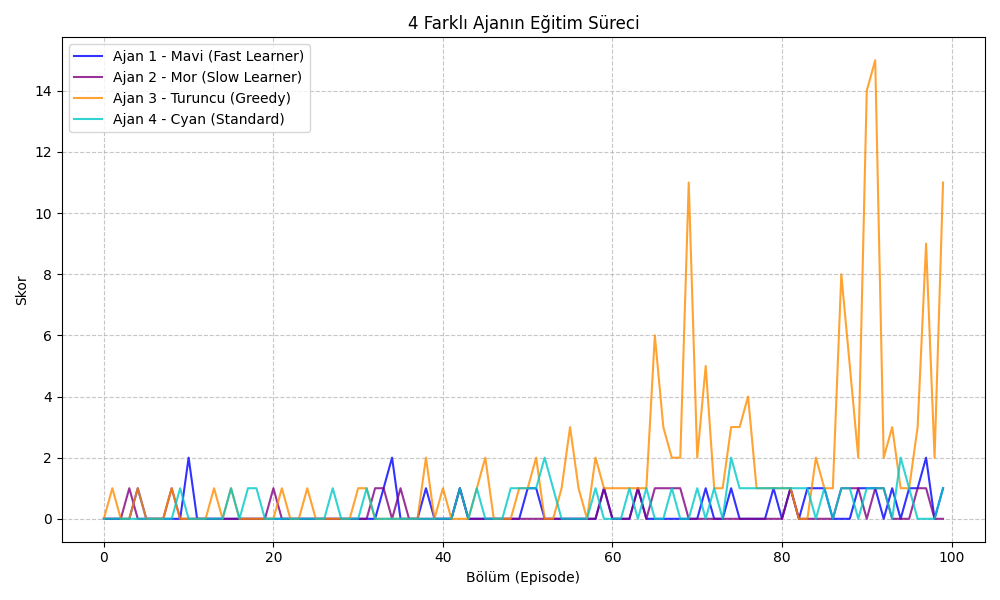
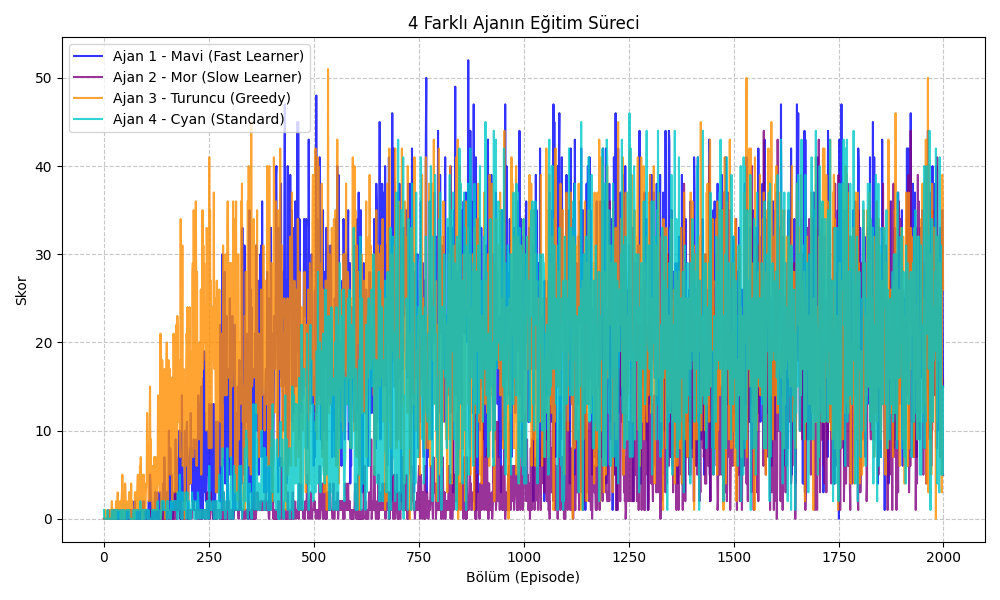
lastupdate:race-system-developed

diff --git a/multi_agent_racing/race.py b/multi_agent_racing/race.py
@@ -3,8 +3,8 @@ import time
 from snake_game import MultiSnakeEnv
 from model import DQNAgent
 
-def race(games=5):
-    env = MultiSnakeEnv(render_mode=True)
+def race(games=5, fps=15):
+    env = MultiSnakeEnv(render_mode=True, fps=fps)
     
     agents = [DQNAgent() for _ in range(4)]
     
@@ -19,13 +19,27 @@ def race(games=5):
         print("Önce modelleri eğitmek için 'python train.py' çalıştırın.")
         return
 
-    for g in range(1, games+1):
+    tournament_wins = [0, 0, 0, 0]
+    g = 1
+
+    while True:
+        # Turnuva tamamlandı mı?
+        if g > games:
+            max_wins = max(tournament_wins)
+            leaders = [i for i, w in enumerate(tournament_wins) if w == max_wins]
+            
+            if len(leaders) == 1:
+                break # Turnuva bitti, tek galip var
+            else:
+                print(f"\n--- BERABERLIK DURUMU! ---")
+                print(f"Liderler: Ajanlar {[(i+1) for i in leaders]} ({max_wins} Galibiyet)")
+                print(f"Eşitlik bozulana kadar {g}. yarış (Tie-Breaker) oynanacak!")
+        
         obs_list = env.reset()
         dones = [False, False, False, False]
         
         while not all(dones):
             env.render(is_race=True) # Yarışma modunda render (karartma vs)
-            time.sleep(0.05) # Yarışmayı izleyebilmek için biraz yavaşlatıyoruz
             
             actions = []
             for i, agent in enumerate(agents):
@@ -37,15 +51,45 @@ def race(games=5):
             obs_list, _, new_dones = env.step(actions)
             dones = new_dones
             
-        # Oyun bitince 2 saniye bekle
-        print(f"Yarış {g} bitti!")
-        env.render(is_race=True) # Kazanan yazısını ekranda göstermek için
-        time.sleep(3)
+        # Oyun bitince kazananı belirle
+        scores = [env.envs[i].score for i in range(4)]
+        max_score = max(scores)
+        winners = [i for i, s in enumerate(scores) if s == max_score]
         
+        if len(winners) > 1:
+            print(f"Yarış {g} berabere bitti! Skorlar: {scores} (Yarış Tekrarlanacak)")
+            env.render(is_race=True) # Berabere yazısını ekranda göstermek için
+            time.sleep(3)
+            # g artırılmaz, aynı yarış numarası tekrarlanır.
+        else:
+            winner_idx = winners[0]
+            tournament_wins[winner_idx] += 1
+            print(f"Yarış {g} bitti! Skorlar: {scores} | Kazanan: Ajan {winner_idx+1}")
+            env.render(is_race=True) # Kazanan yazısını ekranda göstermek için
+            time.sleep(3)
+            g += 1
+        
+    # Turnuva bitişi
+    overall_winner = tournament_wins.index(max(tournament_wins))
+    print(f"\n--- Turnuva Tamamlandı ---")
+    print(f"Galibiyetler: {tournament_wins}")
+    print(f"🏆 TURNUVA SAMPIYONU: AJAN {overall_winner+1} 🏆")
+    
+    # Ekrana turnuva galibini yazdır
+    env.screen.fill((50,50,50))
+    win_txt = env.font.render(f"TURNUVA SAMPIYONU: AJAN {overall_winner+1}", True, (255, 215, 0))
+    win_rect = win_txt.get_rect(center=(env.screen_w//2, env.screen_h//2))
+    import pygame
+    pygame.draw.rect(env.screen, (0,0,0), win_rect.inflate(40, 40))
+    env.screen.blit(win_txt, win_rect)
+    pygame.display.flip()
+    time.sleep(5)
+    
     env.close()
 
 if __name__ == "__main__":
     p = argparse.ArgumentParser()
-    p.add_argument("--games", type=int, default=3)
+    p.add_argument("--games", type=int, default=5)
+    p.add_argument("--fps", type=int, default=15)
     args = p.parse_args()
-    race(games=args.games)
+    race(games=args.games, fps=args.fps)

diff --git a/multi_agent_racing/snake_game.py b/multi_agent_racing/snake_game.py
@@ -7,7 +7,7 @@ HEIGHT_CELLS = 14
 CELL = 30
 WIDTH_PX = WIDTH_CELLS * CELL
 HEIGHT_PX = HEIGHT_CELLS * CELL
-FPS = 30
+FPS = 60
 
 # Ajan renkleri: (Body Outer, Body Inner, Head Outer, Head Inner)
 AGENT_COLORS = [
@@ -15,6 +15,13 @@ AGENT_COLORS = [
     ((128, 0, 128), (180, 50, 180), (75, 0, 130), (220, 100, 220)),  # Mor
     ((255, 140, 0), (255, 180, 50), (200, 100, 0), (255, 220, 100)), # Turuncu
     ((0, 200, 200), (50, 255, 255), (0, 120, 120), (150, 255, 255))  # Cyan
+]
+
+AGENT_LABELS = [
+    "Fast Learner",
+    "Slow Learner",
+    "Greedy",
+    "Standard"
 ]
 
 class SnakeEnv:
@@ -36,6 +43,8 @@ class SnakeEnv:
         self.dir_i = 1
         self.score = 0
         self.steps = 0
+        self.idle_steps = 0
+        self.max_idle_steps = 150
         self.max_steps = WIDTH_CELLS * HEIGHT_CELLS * 2
         self.done = False
         self._place_food()
@@ -53,6 +62,7 @@ class SnakeEnv:
             return self._obs(), 0.0, True
             
         self.steps += 1
+        self.idle_steps += 1
         self.dir_i = (self.dir_i + (1 if action==1 else -1 if action==2 else 0)) % 4
         dx, dy = self.DIRS[self.dir_i]
         hx, hy = self.snake[0]
@@ -69,13 +79,14 @@ class SnakeEnv:
         if head == self.food:
             self.score += 1
             reward = 10.0
+            self.idle_steps = 0
             self._place_food()
         else:
             tail = self.snake.pop()
             self.snake_set.discard(tail)
             reward = -0.01
 
-        if self.steps >= self.max_steps:
+        if self.steps >= self.max_steps or self.idle_steps >= self.max_idle_steps:
             self.done = True
             
         return self._obs(), reward, self.done
@@ -99,7 +110,7 @@ class SnakeEnv:
             float(fy<hy),  float(fy>hy),
         ], dtype=np.float32)
 
-    def draw(self, surface, is_winner=False, text_font=None):
+    def draw(self, surface, is_winner=False, is_tie=False, text_font=None):
         # Checkerboard yeşil zemin
         color1 = (170, 215, 81) # LIGHT_GREEN
         color2 = (162, 209, 73) # DARK_GREEN
@@ -124,13 +135,20 @@ class SnakeEnv:
             pygame.draw.rect(surface, c_out, (x*CELL, y*CELL, CELL, CELL))
             pygame.draw.rect(surface, c_in, (x*CELL + 4, y*CELL + 4, CELL - 8, CELL - 8))
                 
-        # Skor
+        # Skor (Sol üst)
         if text_font:
             txt = text_font.render(f"Skor: {self.score}", True, (0, 0, 0)) # Siyah yazı
             surface.blit(txt, (6, 4))
+            
+        # Strateji (Sağ üst)
+        if text_font:
+            strategy = AGENT_LABELS[self.agent_idx % 4]
+            strat_txt = text_font.render(strategy, True, (0, 0, 0))
+            x_pos = WIDTH_PX - strat_txt.get_width() - 8
+            surface.blit(strat_txt, (x_pos, 4))
 
         # Eğer ölmüşse karart
-        if self.done and not is_winner:
+        if self.done and not is_winner and not is_tie:
             s = pygame.Surface((WIDTH_PX, HEIGHT_PX), pygame.SRCALPHA)
             s.fill((0, 0, 0, 180)) # Yarı saydam siyah
             surface.blit(s, (0,0))
@@ -142,10 +160,17 @@ class SnakeEnv:
             # Gölge / arkaplan
             pygame.draw.rect(surface, (0,0,0), win_rect.inflate(20, 20))
             surface.blit(win_txt, win_rect)
+        # Eğer berabere ise
+        elif is_tie and text_font:
+            tie_txt = text_font.render("BERABERE!", True, (200, 200, 200))
+            tie_rect = tie_txt.get_rect(center=(WIDTH_PX//2, HEIGHT_PX//2))
+            pygame.draw.rect(surface, (0,0,0), tie_rect.inflate(20, 20))
+            surface.blit(tie_txt, tie_rect)
 
 class MultiSnakeEnv:
-    def __init__(self, render_mode=False):
+    def __init__(self, render_mode=False, fps=120):
         self.render_mode = render_mode
+        self.fps = fps
         self.envs = [SnakeEnv(i) for i in range(4)]
         self.screen = None
         self.clock = None
@@ -187,16 +212,22 @@ class MultiSnakeEnv:
                 
         self.screen.fill((50,50,50)) # Arka plan çerçevesi
         
-        # Hayatta kalan ajan sayısını bul (yarışma modu için)
+        # Yarışma modunda kazananı belirleme (Sadece herkes öldüğünde)
         active_agents = [i for i, env in enumerate(self.envs) if not env.done]
-        winner_idx = active_agents[0] if is_race and len(active_agents) == 1 else -1
-        if is_race and len(active_agents) == 0: # Hepsi öldüyse, en son öleni winner yapamayız gerçi, neyse.
-            pass
+        winner_idxs = []
+        is_tie = False
+        if is_race and len(active_agents) == 0:
+            scores = [env.score for env in self.envs]
+            max_s = max(scores)
+            winner_idxs = [i for i, s in enumerate(scores) if s == max_s]
+            if len(winner_idxs) > 1:
+                is_tie = True
 
         for i, env in enumerate(self.envs):
             surf = self.surfaces[i]
-            is_winner = (i == winner_idx) and is_race
-            env.draw(surf, is_winner=is_winner, text_font=self.font)
+            env_is_winner = (i in winner_idxs) and is_race and not is_tie
+            env_is_tie = (i in winner_idxs) and is_race and is_tie
+            env.draw(surf, is_winner=env_is_winner, is_tie=env_is_tie, text_font=self.font)
             
             # Sınır çizgisi
             pygame.draw.rect(surf, (200,200,200), surf.get_rect(), 2)
@@ -205,7 +236,7 @@ class MultiSnakeEnv:
             self.screen.blit(surf, self.positions[i])
             
         pygame.display.flip()
-        self.clock.tick(FPS)
+        self.clock.tick(self.fps)
         
     def close(self):
         if self.render_mode:

diff --git a/multi_agent_racing/train.py b/multi_agent_racing/train.py
@@ -3,8 +3,8 @@ import json
 from snake_game import MultiSnakeEnv
 from model import DQNAgent
 
-def train(episodes=2000, render=False):
-    env = MultiSnakeEnv(render_mode=render)
+def train(episodes=2000, render=False, fps=120):
+    env = MultiSnakeEnv(render_mode=render, fps=fps)
     
     # 4 Farklı Ajan
     agents = [
@@ -82,5 +82,6 @@ if __name__ == "__main__":
     p = argparse.ArgumentParser()
     p.add_argument("--eps", type=int, default=1000)
     p.add_argument("--render", action="store_true")
+    p.add_argument("--fps", type=int, default=120)
     args = p.parse_args()
-    train(episodes=args.eps, render=args.render)
+    train(episodes=args.eps, render=args.render, fps=args.fps)